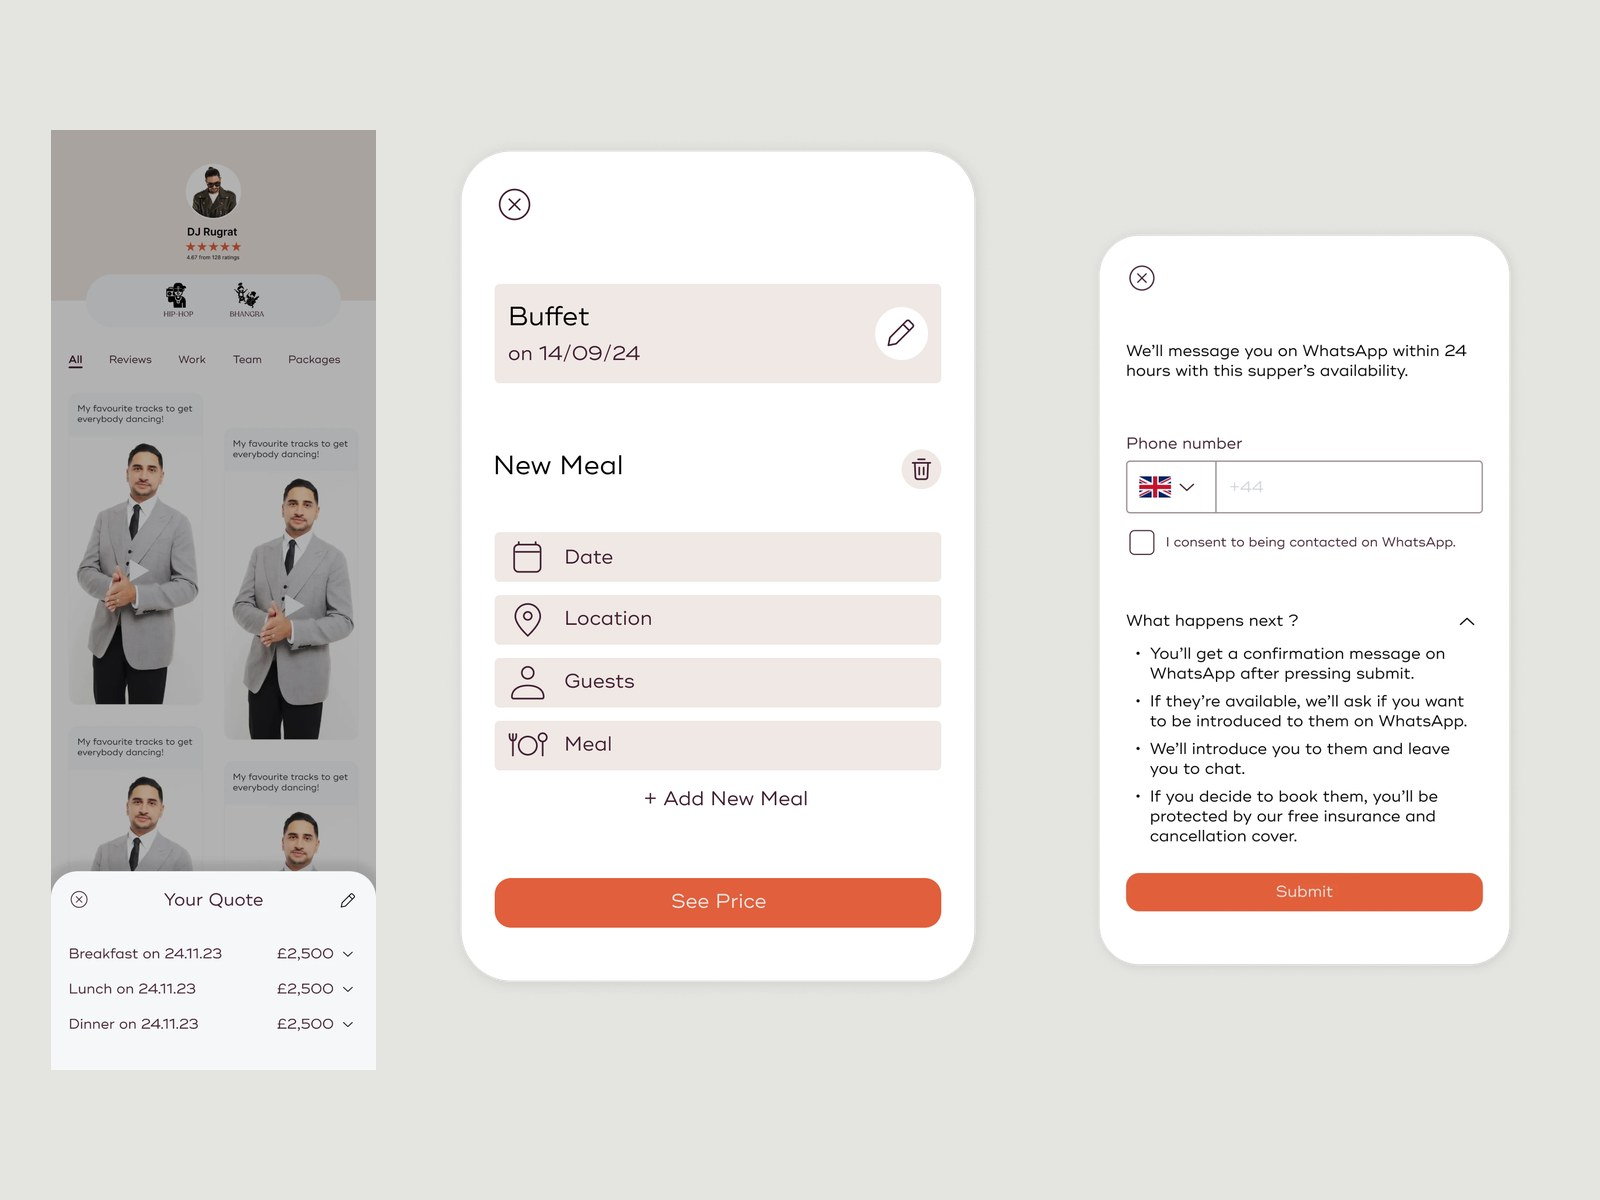
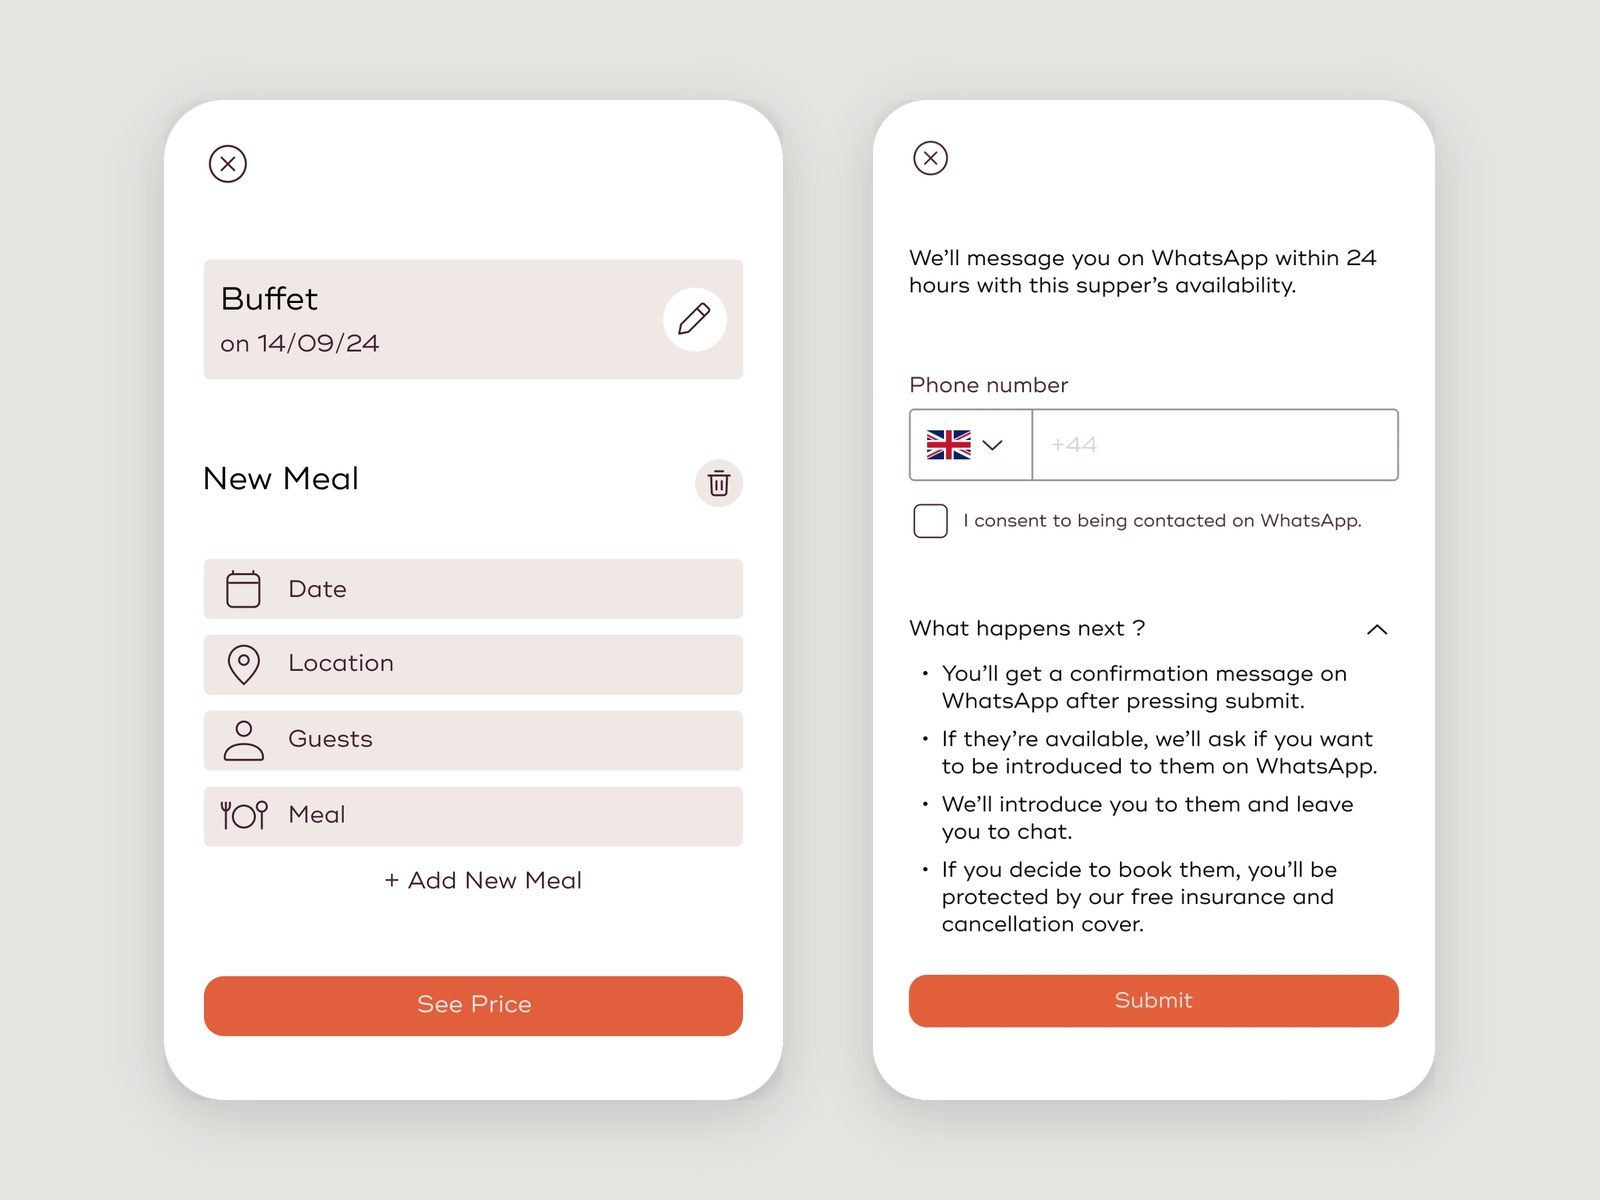
Now To Vow: two large screens on the first slide, new description
Claude-Session: https://claude.ai/code/session_01XEfCK8uUxQD13htTcAm3j8

diff --git a/index.html b/index.html
@@ -388,7 +388,7 @@ html.stamp-on, html.stamp-on * { cursor: none !important; }
 <script>
 const projects = [
   { n: "01", m: ["Launched · Used by the Singapore government","Team of 2 designers"], t: "School of X", y: "2021–2022", c: "A website and Member's Portal for a design community, made with a human-centred, lean approach.", tags: ["Interface", "Illustration"], img: "Phone screens", file: "sox", count: 6 },
-  { n: "02", m: ["UI Designer, internship"], t: "Now To Vow", y: "2023–2024", c: "UI work from my internship at Now To Vow in London: a vendor profile with a quote, a form to build a meal, and a WhatsApp availability request, plus an event poster.", tags: ["Interface"], img: "App screens", file: "ntv", count: 3 },
+  { n: "02", m: ["UI Designer, internship"], t: "Now To Vow", y: "2023–2024", c: "I was an intern at this start-up in London, a website for last-minute wedding planning and booking. Screens for building a meal and requesting a vendor's availability on WhatsApp, plus an event poster.", tags: ["Interface"], img: "App screens", file: "ntv", count: 3 },
   { n: "03", m: ["Solo"], t: "The Minister of Loneliness", y: "2023", c: "Speculative design on loneliness among UK youth aged 16 to 24, with a social currency called LOOVE, an Instagram campaign and a publication. (MA dissertation, University of Edinburgh.)", tags: ["Concept", "Illustration"], img: "Pill illustration", file: "loneliness", count: 6 },
   { n: "04", m: ["Freelance · Real clients · Ongoing","Solo"], t: "Story-Led Brand Identity", y: "2024–2026", c: "Five identities, Flora, Peucha, Thantara, Kaikraft and Fello, each built from the brand's story before any visual took shape.", tags: ["Brand"], img: "Brand boards", file: "brand", count: 5 },
   { n: "05", m: ["BA thesis","Solo"], t: "AquaRealm", y: "2021", c: "A portable fish tank for people living with depression, with three settings: Rainwash, Rockery and Reverie.", tags: ["Concept", "Objects"], img: "Fish tank", file: "aqua", count: 5 },
